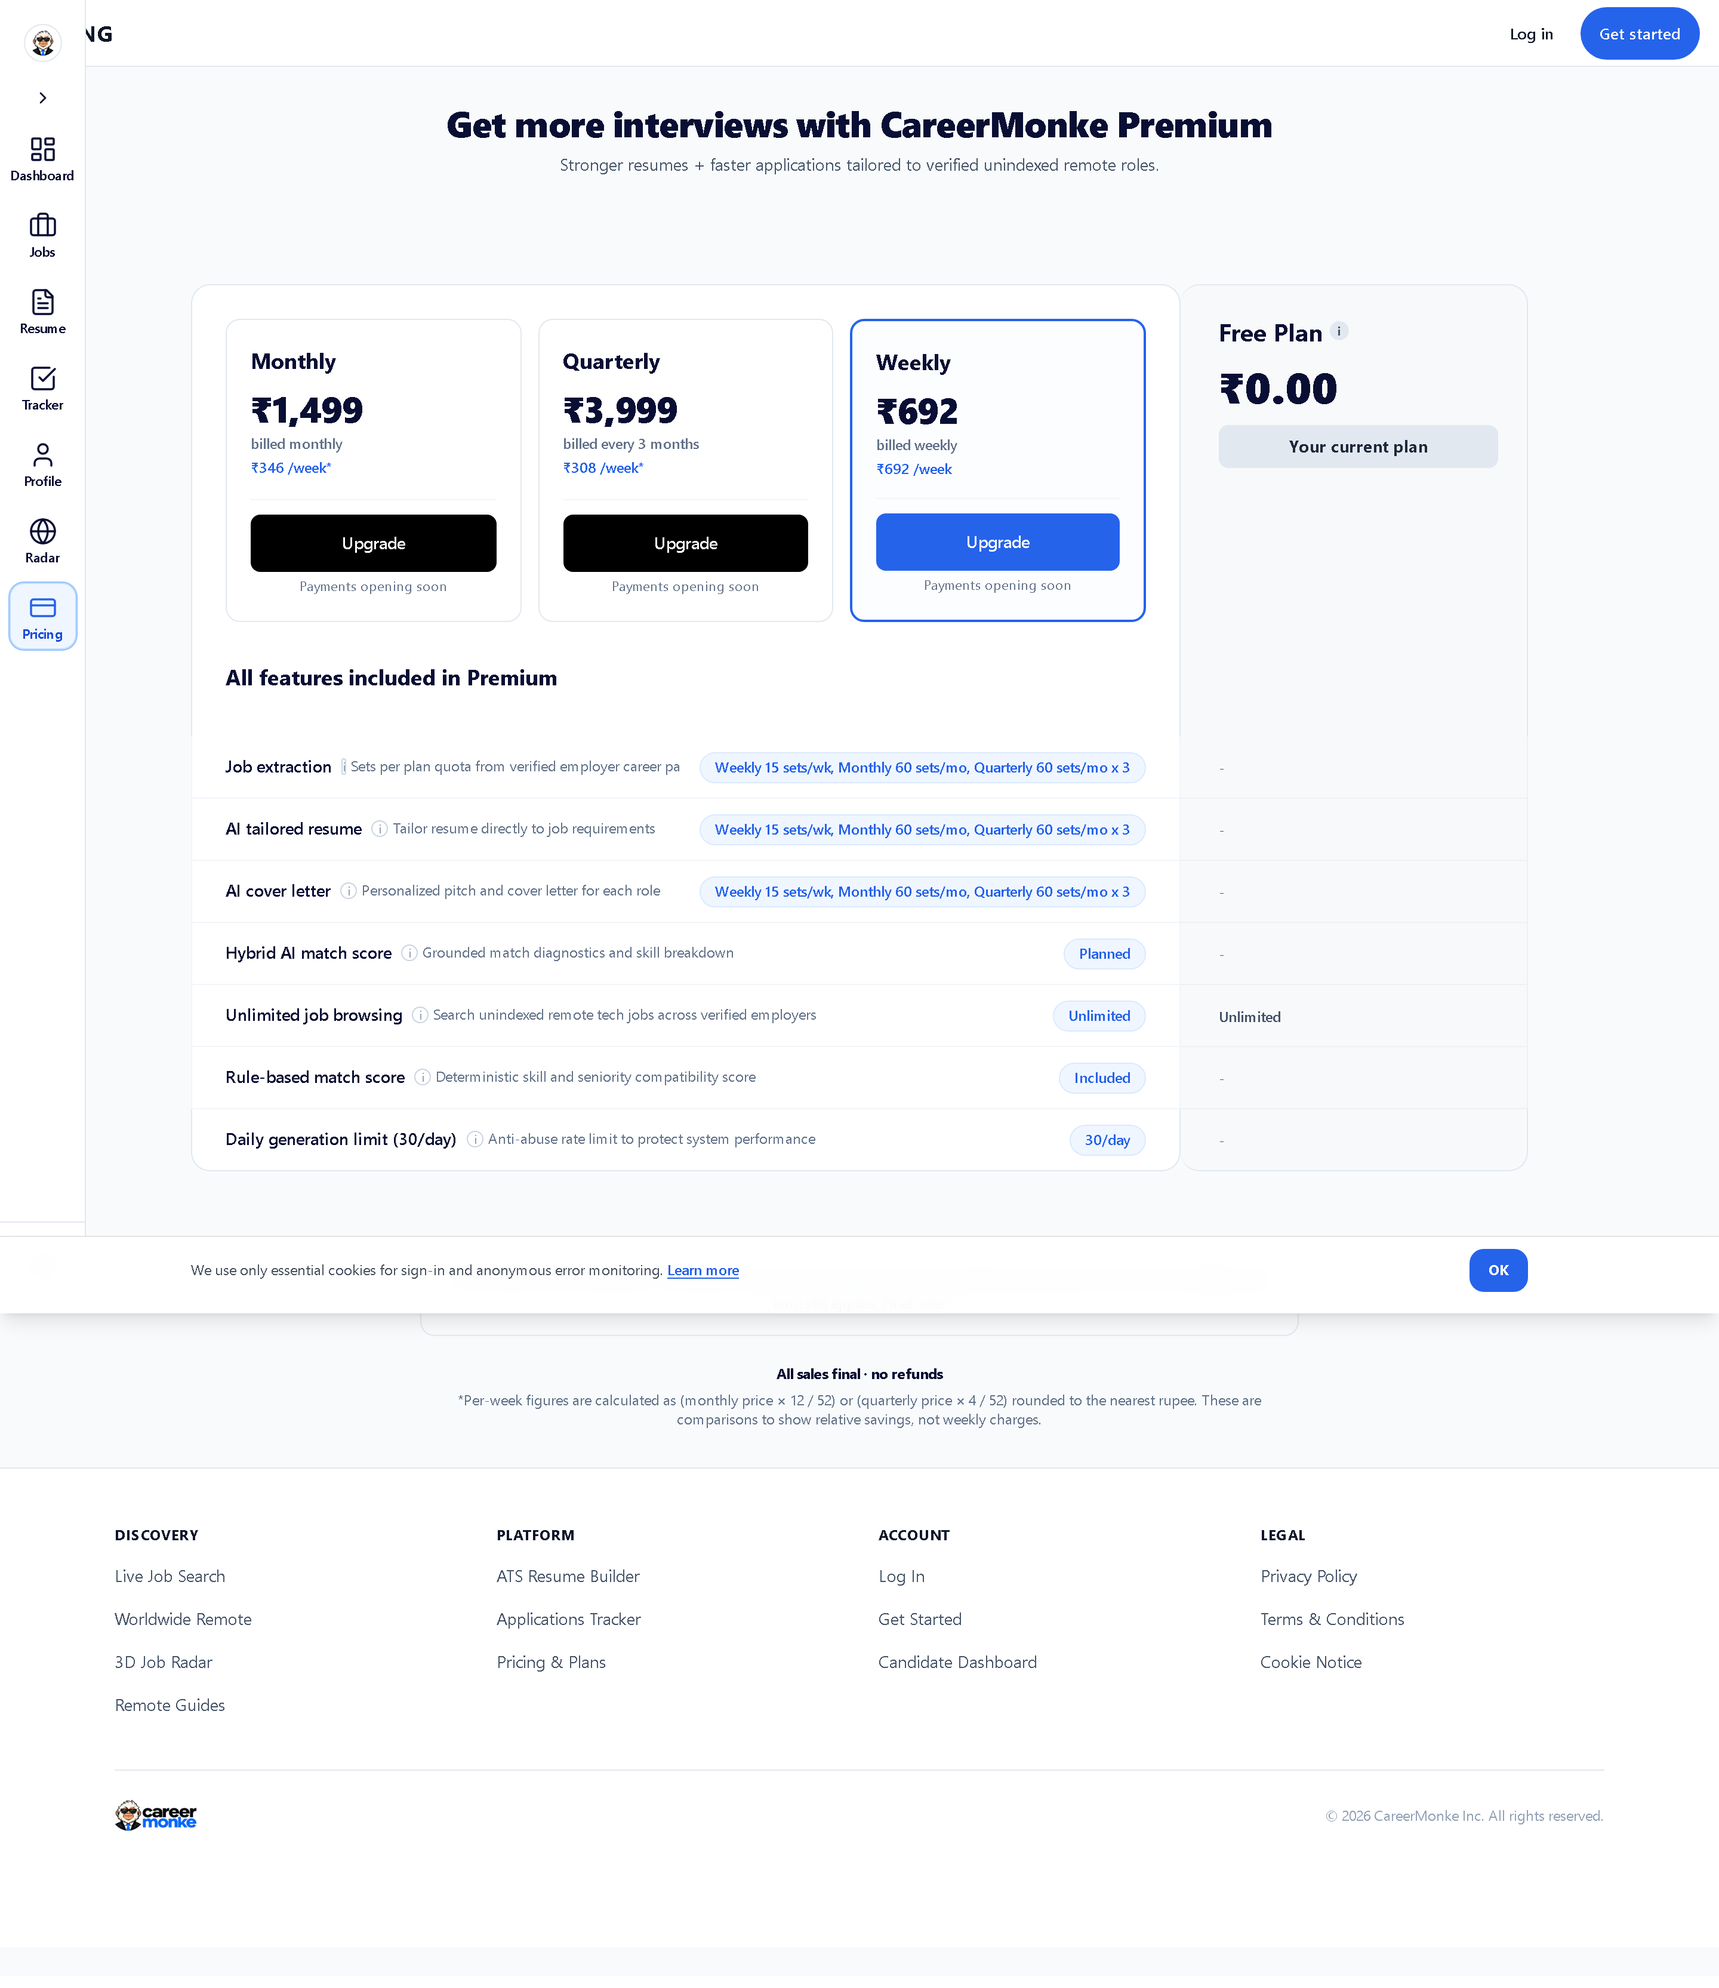
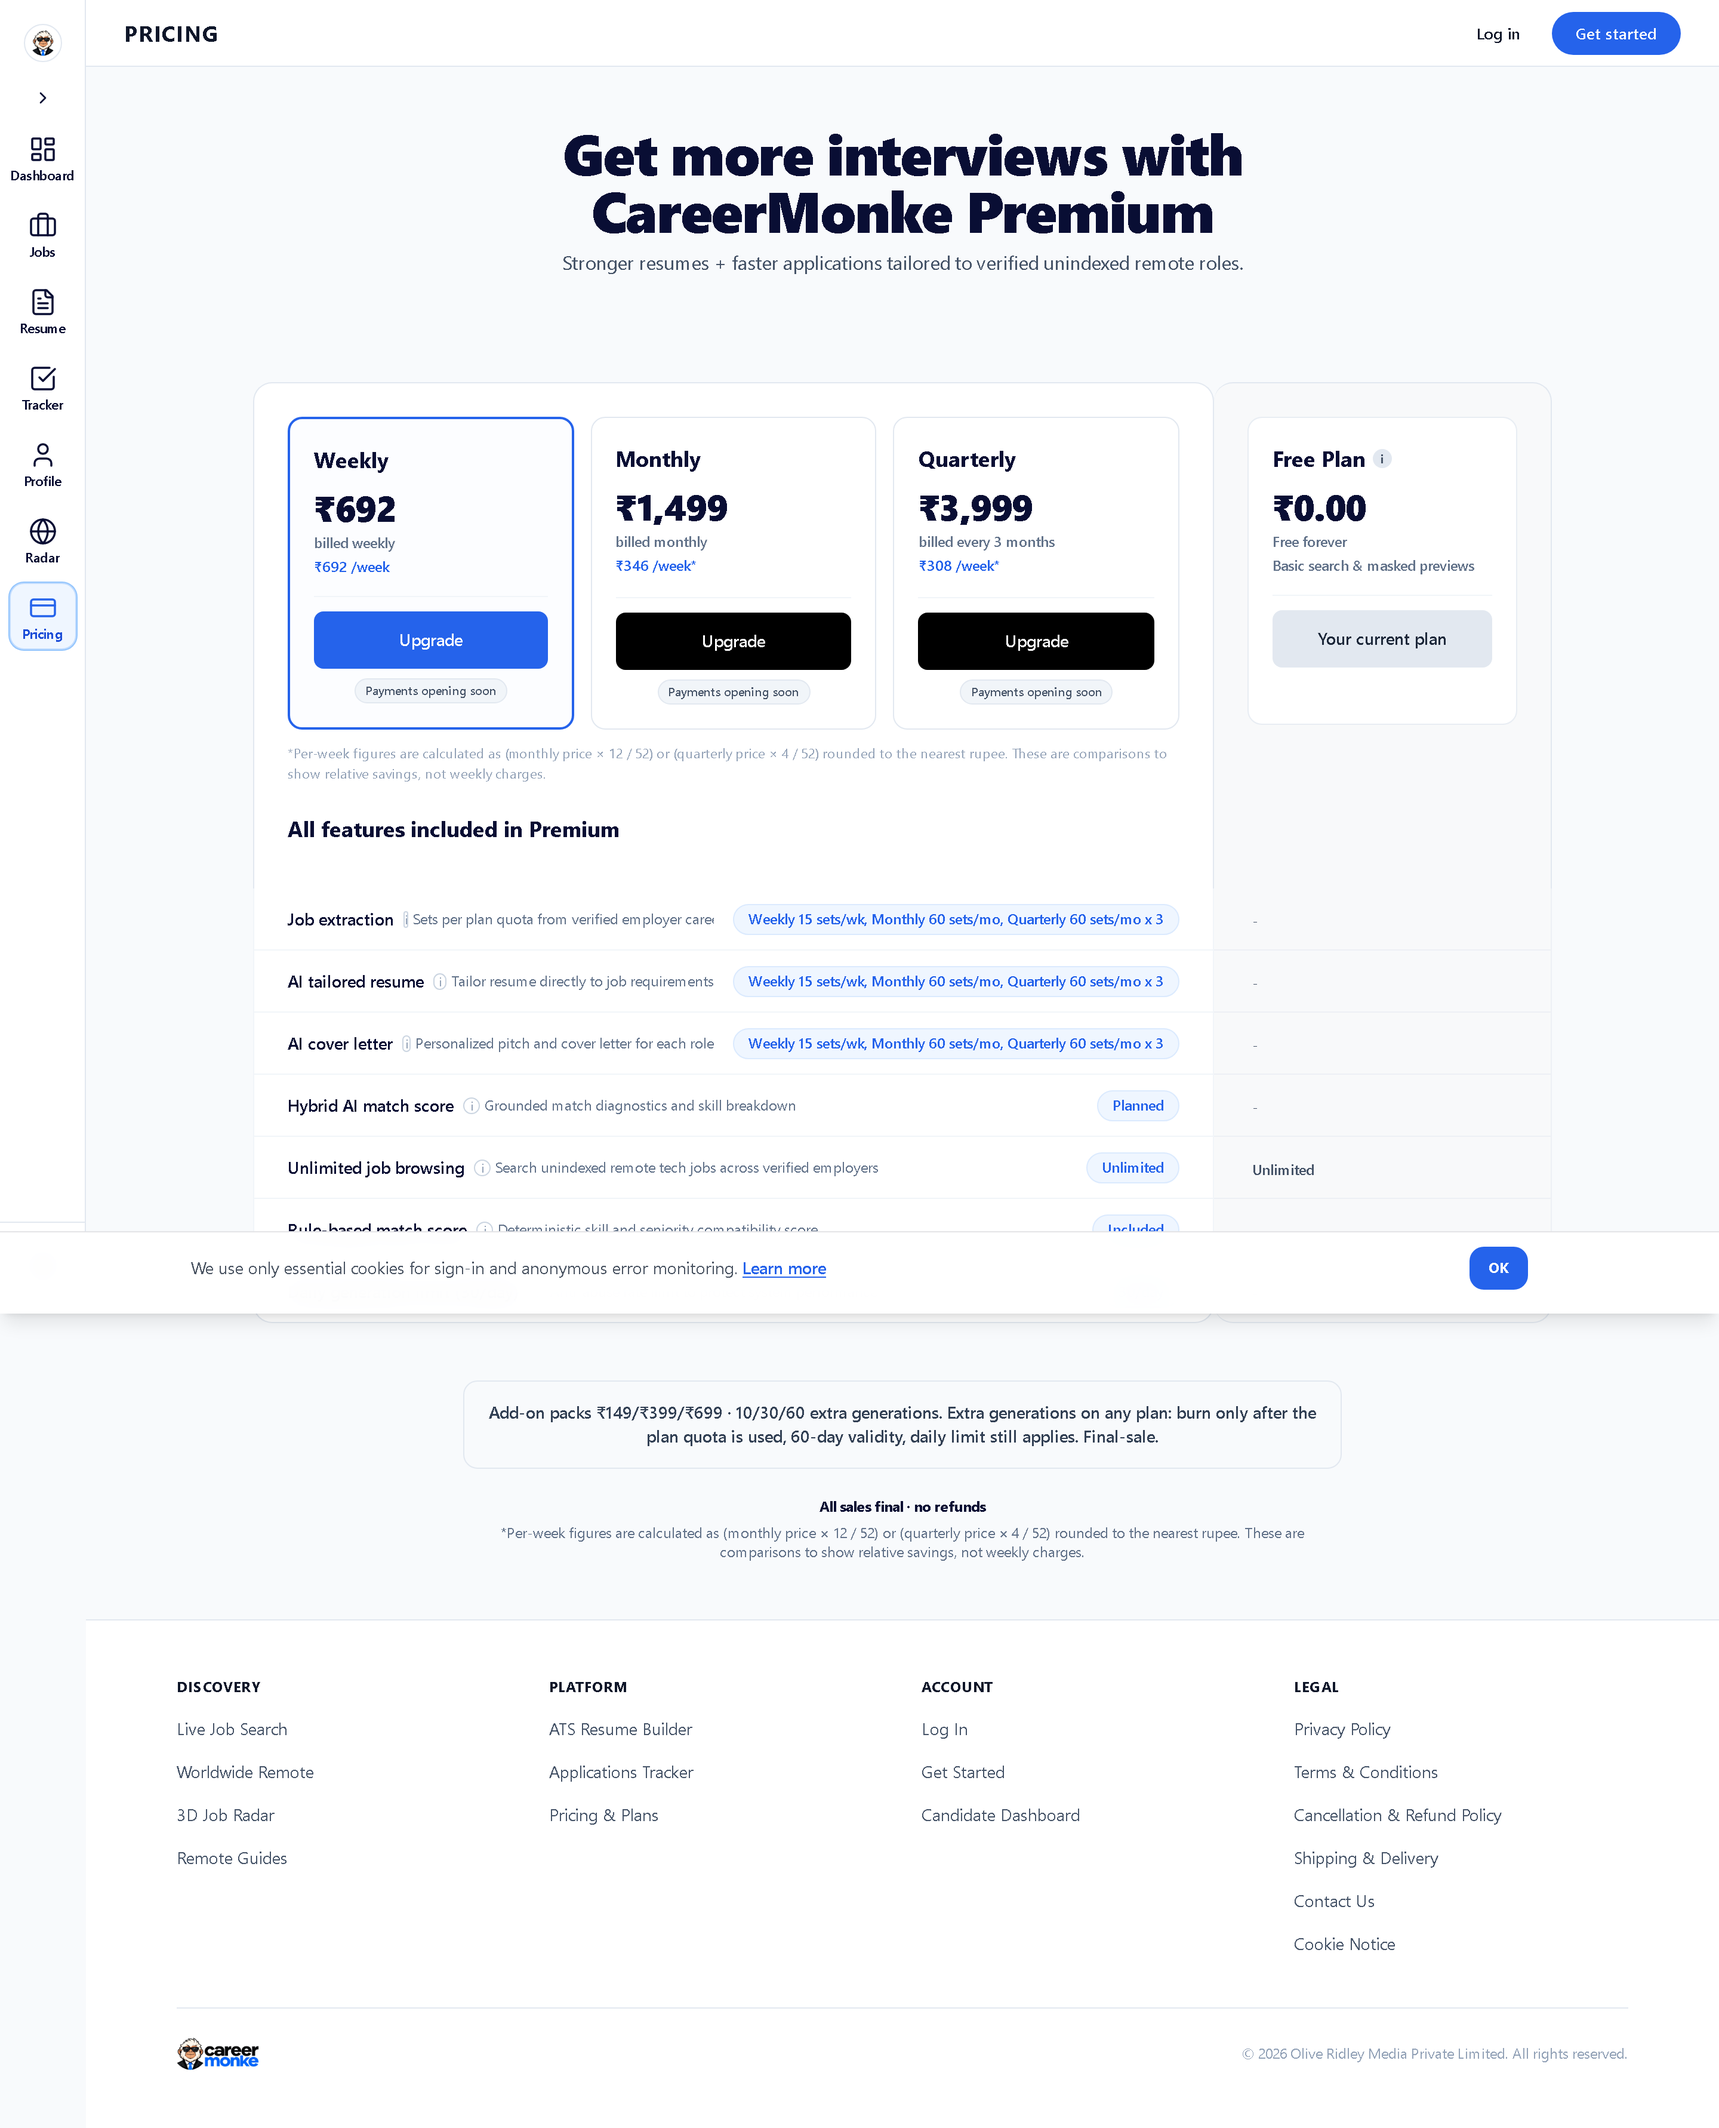
feat(pricing): polish plan order, free card alignment, per-week footnote, and payments badge

diff --git a/src/app/pricing/page.tsx b/src/app/pricing/page.tsx
@@ -140,7 +140,7 @@ export default function PricingPage() {
               <tr>
                 {/* Left Cell: White rounded card containing the three plan tiles */}
                 <td className="w-[74%] bg-white dark:bg-slate-950 rounded-t-2xl border-t border-l border-r border-slate-200 dark:border-slate-800 p-6 sm:p-7 align-top shadow-xs">
-                  {/* Three Plan Tiles Side-by-Side: Monthly, Quarterly, Weekly */}
+                  {/* Three Plan Tiles Side-by-Side: Weekly, Monthly, Quarterly */}
                   <div
                     role="radiogroup"
                     aria-label="Subscription plans"
@@ -165,7 +165,7 @@ export default function PricingPage() {
                           onClick={() => handleSelectPlan(plan.id)}
                           onKeyDown={(e) => handleKeyDownPlan(e, plan.id)}
                           className={cnTokens(
-                            "relative flex flex-col justify-between rounded-xl p-4 sm:p-5 transition-colors cursor-pointer select-none min-h-[200px] focus:outline-none focus-visible:ring-2 focus-visible:ring-[#2563EB] focus-visible:ring-offset-2",
+                            "relative flex flex-col justify-between rounded-xl p-4 sm:p-5 transition-colors cursor-pointer select-none min-h-[220px] focus:outline-none focus-visible:ring-2 focus-visible:ring-[#2563EB] focus-visible:ring-offset-2",
                             isSelected
                               ? "border-2 border-[#2563EB] bg-blue-50/20 dark:bg-blue-950/20 shadow-xs"
                               : "border border-slate-200 dark:border-slate-800 bg-white dark:bg-slate-950 hover:border-slate-300 dark:hover:border-slate-700"
@@ -230,17 +230,24 @@ export default function PricingPage() {
                                 Upgrade
                               </Link>
                             )}
-                            <span className="text-[11px] text-slate-500 text-center block mt-1">
-                              {UPGRADE_BUTTON_LABEL}
-                            </span>
+                            <div className="flex justify-center mt-2">
+                              <span className="inline-flex items-center px-2 py-0.5 rounded-full text-[10px] font-medium bg-slate-100 dark:bg-slate-800 text-slate-600 dark:text-slate-400 border border-slate-200 dark:border-slate-700">
+                                {UPGRADE_BUTTON_LABEL}
+                              </span>
+                            </div>
                           </div>
                         </div>
                       );
                     })}
                   </div>
 
+                  {/* Footnote right below cards */}
+                  <p className="text-[11px] text-slate-400 dark:text-slate-500 mt-3 leading-normal">
+                    {PER_WEEK_NOTE}
+                  </p>
+
                   {/* Heading below tiles */}
-                  <div className="mt-8 mb-2">
+                  <div className="mt-6 mb-2">
                     <h2 className="text-lg font-bold text-[#090E34] dark:text-white">
                       All features included in Premium
                     </h2>
@@ -248,28 +255,48 @@ export default function PricingPage() {
                 </td>
 
                 {/* Right Cell: Grey Free Plan Panel Header */}
-                <td className="w-[26%] bg-[#F8F9FA] dark:bg-slate-900/60 rounded-t-2xl border-t border-r border-slate-200 dark:border-slate-800 p-6 pl-8 align-top">
-                  <div className="flex items-center gap-1.5 mb-1">
-                    <h2 className="text-xl font-bold text-[#090E34] dark:text-white">
-                      Free Plan
-                    </h2>
-                    <span className="inline-flex items-center justify-center w-4 h-4 rounded-full bg-slate-200 dark:bg-slate-700 text-[10px] text-slate-600 dark:text-slate-300 font-bold" aria-hidden="true">
-                      i
-                    </span>
-                  </div>
+                <td className="w-[26%] bg-[#F8F9FA] dark:bg-slate-900/60 rounded-t-2xl border-t border-r border-slate-200 dark:border-slate-800 p-6 sm:p-7 align-top">
+                  <div className="flex flex-col justify-between rounded-xl p-4 sm:p-5 border border-slate-200/80 dark:border-slate-800 bg-white dark:bg-slate-950 shadow-xs min-h-[220px]">
+                    <div>
+                      {/* Plan Name */}
+                      <div className="flex items-center gap-1.5 mb-2">
+                        <span className="text-lg font-bold text-[#090E34] dark:text-white">
+                          Free Plan
+                        </span>
+                        <span className="inline-flex items-center justify-center w-4 h-4 rounded-full bg-slate-200 dark:bg-slate-700 text-[10px] text-slate-600 dark:text-slate-300 font-bold" aria-hidden="true">
+                          i
+                        </span>
+                      </div>
 
-                  {/* Price */}
-                  <div className="my-3">
-                    <span className="text-3xl sm:text-4xl font-black text-[#090E34] dark:text-white">
-                      ₹0.00
-                    </span>
-                  </div>
+                      {/* Big Price */}
+                      <div className="my-1">
+                        <span className="text-3xl font-black text-[#090E34] dark:text-white tracking-tight">
+                          ₹0.00
+                        </span>
+                      </div>
 
-                  {/* Current Plan State */}
-                  <div className="mb-4">
-                    <span className="block w-full py-2 px-3 text-center rounded-lg bg-slate-200 dark:bg-slate-800 text-slate-800 dark:text-slate-200 font-bold text-xs sm:text-sm">
-                      Your current plan
-                    </span>
+                      {/* Billing Line */}
+                      <p className="text-xs text-slate-500 dark:text-slate-400 font-medium">
+                        Free forever
+                      </p>
+
+                      {/* Subline */}
+                      <p className="text-xs font-semibold text-slate-500 dark:text-slate-400 mt-1">
+                        Basic search & masked previews
+                      </p>
+                    </div>
+
+                    {/* Button container matching paid cards */}
+                    <div className="mt-4 pt-3 border-t border-slate-100 dark:border-slate-800">
+                      <div className="w-full min-h-[48px] h-11 rounded-lg font-semibold text-sm flex items-center justify-center select-none bg-slate-200 dark:bg-slate-800 text-slate-800 dark:text-slate-200">
+                        Your current plan
+                      </div>
+                      <div className="flex justify-center mt-2 invisible" aria-hidden="true">
+                        <span className="inline-flex items-center px-2 py-0.5 rounded-full text-[10px] font-medium">
+                          placeholder
+                        </span>
+                      </div>
+                    </div>
                   </div>
                 </td>
               </tr>
@@ -402,30 +429,51 @@ export default function PricingPage() {
                         Upgrade
                       </Link>
                     )}
-                    <span className="text-[11px] text-slate-500 text-center block mt-1">
-                      {UPGRADE_BUTTON_LABEL}
-                    </span>
+                    <div className="flex justify-center mt-2">
+                      <span className="inline-flex items-center px-2 py-0.5 rounded-full text-[10px] font-medium bg-slate-100 dark:bg-slate-800 text-slate-600 dark:text-slate-400 border border-slate-200 dark:border-slate-700">
+                        {UPGRADE_BUTTON_LABEL}
+                      </span>
+                    </div>
                   </div>
                 </div>
               );
             })}
           </div>
 
+          {/* Footnote right below cards */}
+          <p className="text-[11px] text-slate-400 dark:text-slate-500 -mt-2 leading-normal text-center">
+            {PER_WEEK_NOTE}
+          </p>
+
           {/* Free Tier Card on Mobile */}
-          <div className="bg-[#F8F9FA] dark:bg-slate-900/60 rounded-2xl border border-slate-200 dark:border-slate-800 p-5 shadow-xs">
-            <div className="flex items-center justify-between gap-2 mb-2">
-              <span className="text-base font-bold text-[#090E34] dark:text-white">
-                Free Plan
-              </span>
+          <div className="flex flex-col justify-between rounded-2xl p-5 bg-[#F8F9FA] dark:bg-slate-900/60 border border-slate-200 dark:border-slate-800 shadow-xs">
+            <div>
+              <div className="mb-1">
+                <span className="text-lg font-bold text-[#090E34] dark:text-white">
+                  Free Plan
+                </span>
+              </div>
+
+              <div className="my-1">
+                <span className="text-3xl font-black text-[#090E34] dark:text-white tracking-tight">
+                  ₹0.00
+                </span>
+              </div>
+
+              <p className="text-xs text-slate-500 font-medium">Free forever</p>
+
+              <div className="flex items-center gap-2 mt-1">
+                <span className="text-xs font-semibold text-slate-500 dark:text-slate-400">
+                  Basic search & masked previews
+                </span>
+              </div>
             </div>
-            <div className="my-2">
-              <span className="text-3xl font-black text-[#090E34] dark:text-white">
-                ₹0.00
-              </span>
+
+            <div className="mt-4 pt-3 border-t border-slate-200 dark:border-slate-800">
+              <div className="w-full min-h-[48px] h-11 rounded-lg bg-slate-200 dark:bg-slate-800 text-slate-800 dark:text-slate-200 font-semibold text-sm flex items-center justify-center select-none">
+                Your current plan
+              </div>
             </div>
-            <span className="block w-full py-2 px-3 text-center rounded-lg bg-slate-200 dark:bg-slate-800 text-slate-800 dark:text-slate-200 font-bold text-xs">
-              Your current plan
-            </span>
           </div>
 
           {/* Mobile Comparison Table */}

diff --git a/src/config/plans.ts b/src/config/plans.ts
@@ -138,12 +138,12 @@ export const PLANS: PlanConfig[] = [
 ];
 
 /**
- * Display order for paid cards in desktop row: Monthly / Quarterly / Weekly
+ * Display order for paid cards in desktop row: Weekly / Monthly / Quarterly
  */
 export const PAID_PLANS_DISPLAY_ORDER: Array<PlanConfig["id"]> = [
+  "weekly",
   "monthly",
   "quarterly",
-  "weekly",
 ];
 
 export const PLAN_COMPARISON_ROWS: PlanComparisonRow[] = [
